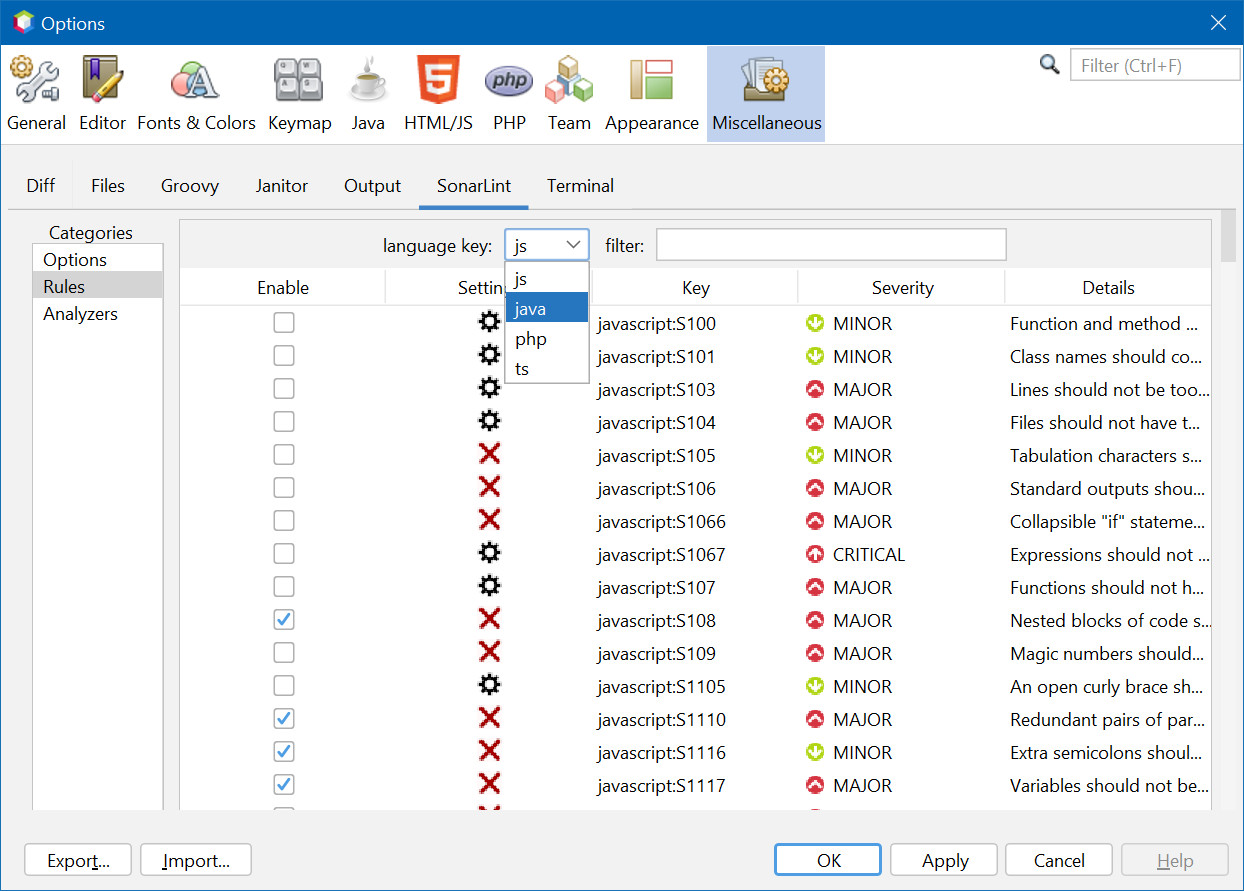
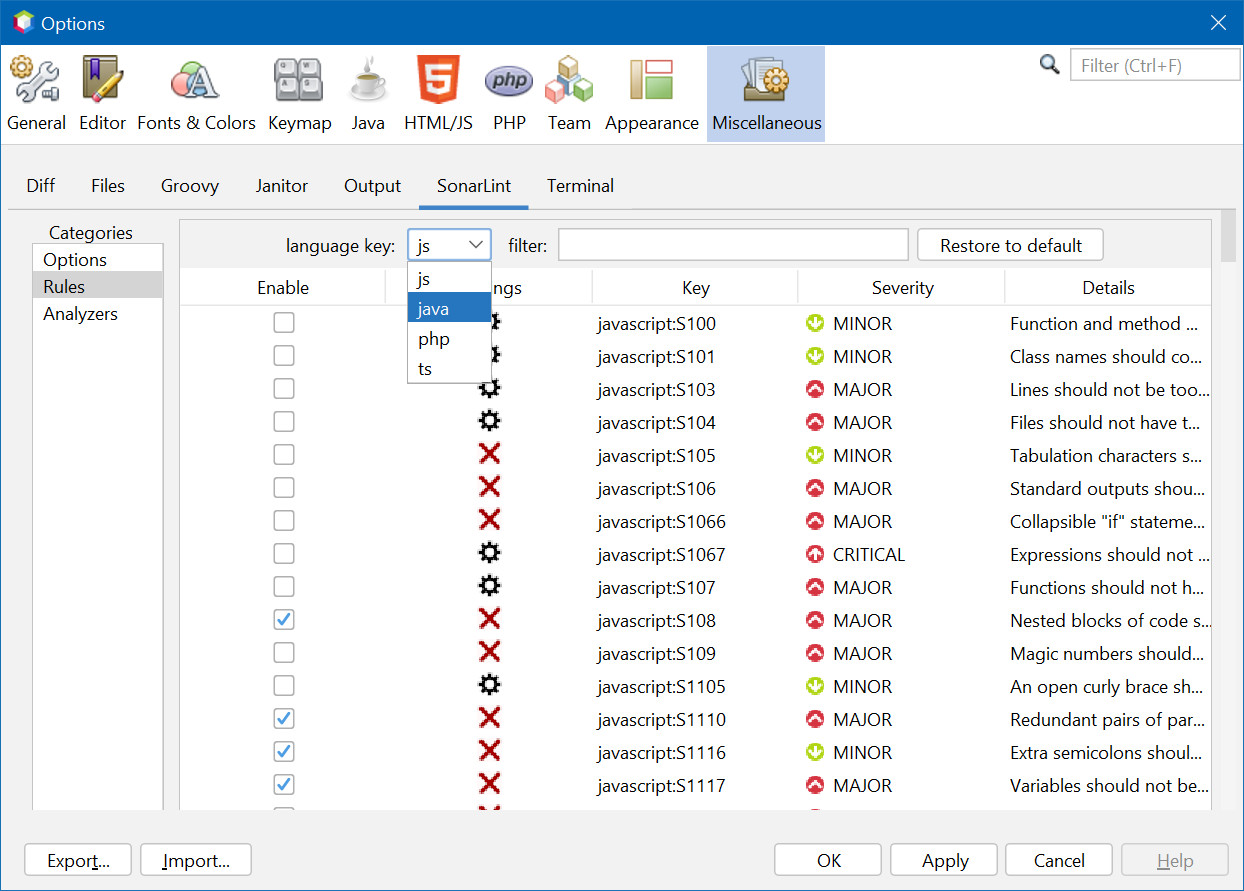
Add button to restore to default in "Sonar Rule Details" options

Changed region(s): [[0.2138, 0.2424, 0.5193, 0.4545], [0.6109, 0.9394, 0.7026, 1.0], [0.7637, 0.2727, 0.8859, 0.303]]

diff --git a/src/main/java/com/github/philippefichet/sonarlint4netbeans/SonarLintPanel.java b/src/main/java/com/github/philippefichet/sonarlint4netbeans/SonarLintPanel.java
@@ -32,6 +32,7 @@ import java.util.List;
 import java.util.Map;
 import java.util.Optional;
 import javax.swing.BoxLayout;
+import javax.swing.JButton;
 import javax.swing.JComboBox;
 import javax.swing.JLabel;
 import javax.swing.JPanel;
@@ -155,6 +156,8 @@ public final class SonarLintPanel extends javax.swing.JPanel {
     private void initRulesPanel(SonarLintEngine sonarLintEngine) {
         optionPanel.removeAll();
         JPanel languageKeyContainer = new JPanel(new FlowLayout());
+        JButton resetSelectedRule = new JButton("Restore to default");
+        resetSelectedRule.setToolTipText("Selected only rule activated by default");
         JTextField rulesFilter = new JTextField();
         rulesFilter.setColumns(20);
         JComboBox<String> comboLanguageKey = new JComboBox<>();
@@ -172,11 +175,26 @@ public final class SonarLintPanel extends javax.swing.JPanel {
             e ->
             rulesDefaultTableModel.setRules(sonarLintEngine, (String)comboLanguageKey.getSelectedItem(), rulesFilter.getText())
         );
+        resetSelectedRule.addActionListener(
+            e -> {
+            sonarLintEngine.getAllRuleDetails().stream()
+            .filter(rule -> rule.getLanguage().getLanguageKey().equals((String)comboLanguageKey.getSelectedItem()))
+            .forEach(rule -> {
+                RuleKey ruleKey = RuleKey.parse(rule.getKey());
+                if (rule.isActiveByDefault()) {
+                    sonarLintEngine.includeRuleKey(ruleKey);
+                } else {
+                    sonarLintEngine.excludeRuleKey(ruleKey);
+                }
+            });
+            rulesDefaultTableModel.setRules(sonarLintEngine, (String)comboLanguageKey.getSelectedItem(), rulesFilter.getText());
+        });
         languageKeyContainer.add(new JLabel("language key: "));
         languageKeyContainer.add(comboLanguageKey);
         languageKeyContainer.add(new JSeparator());
         languageKeyContainer.add(new JLabel("filter: "));
         languageKeyContainer.add(rulesFilter);
+        languageKeyContainer.add(resetSelectedRule);
         
         JPanel northContainer = new JPanel();
         northContainer.setLayout(new BoxLayout(northContainer, BoxLayout.Y_AXIS));
